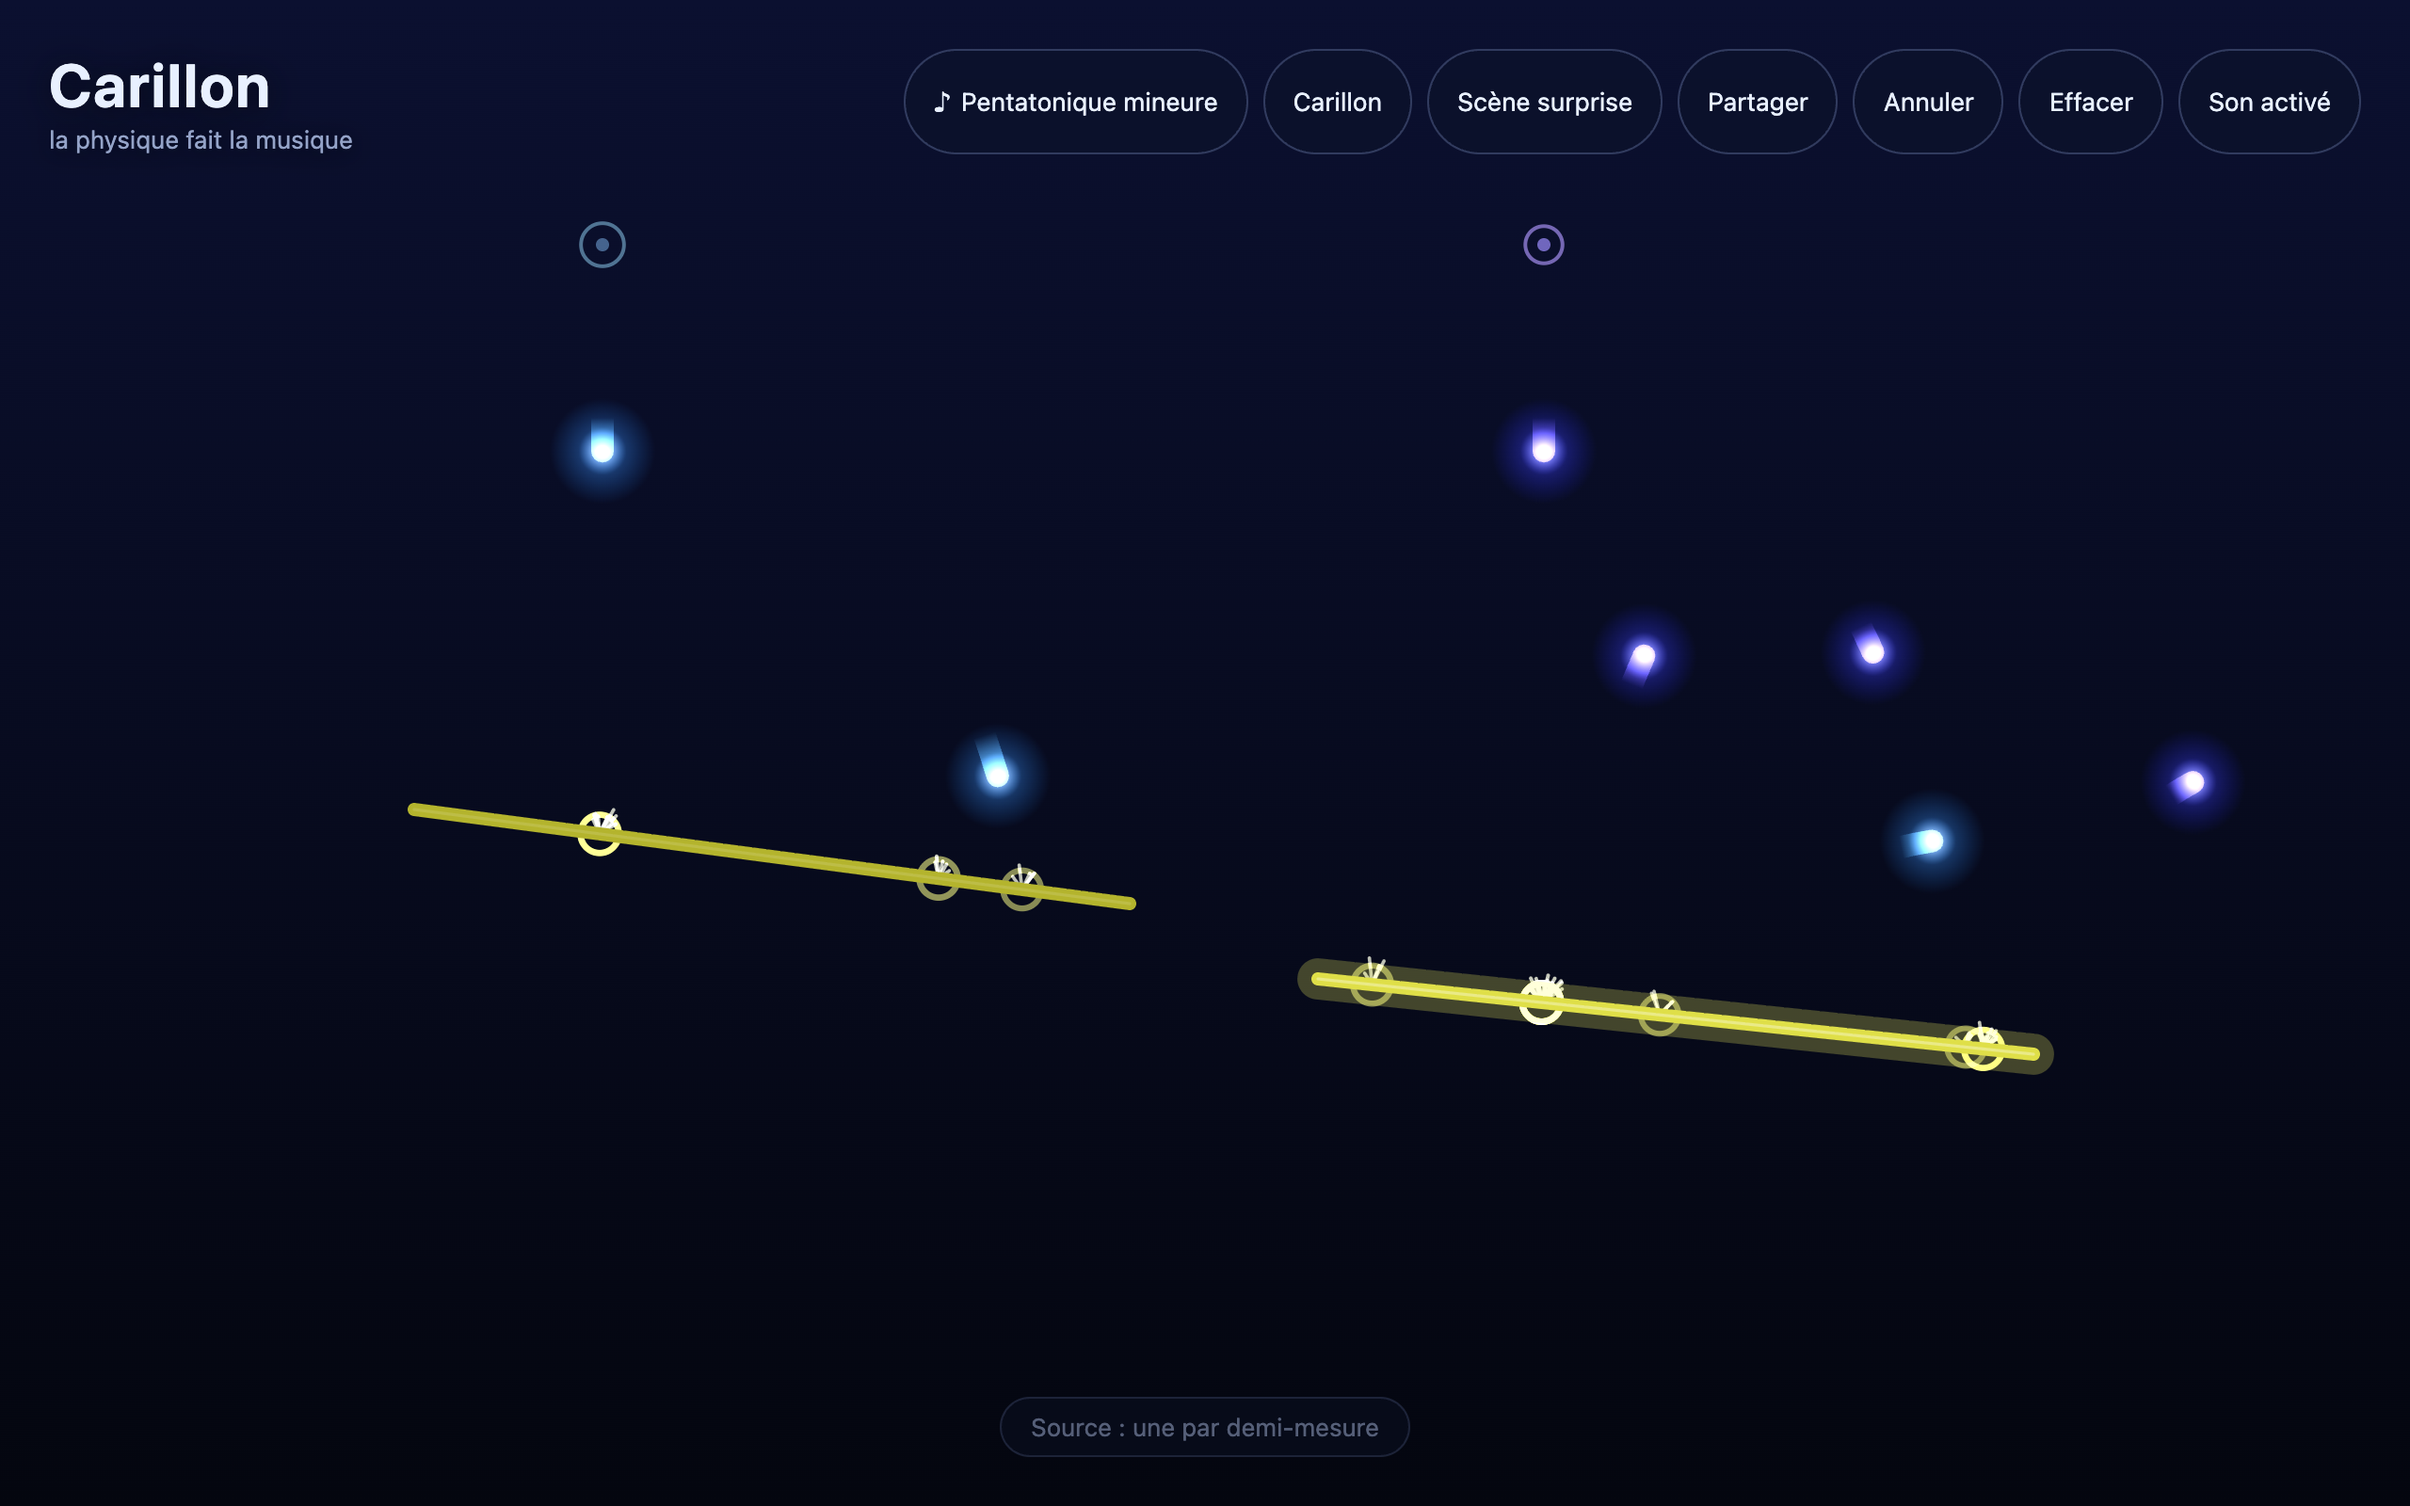
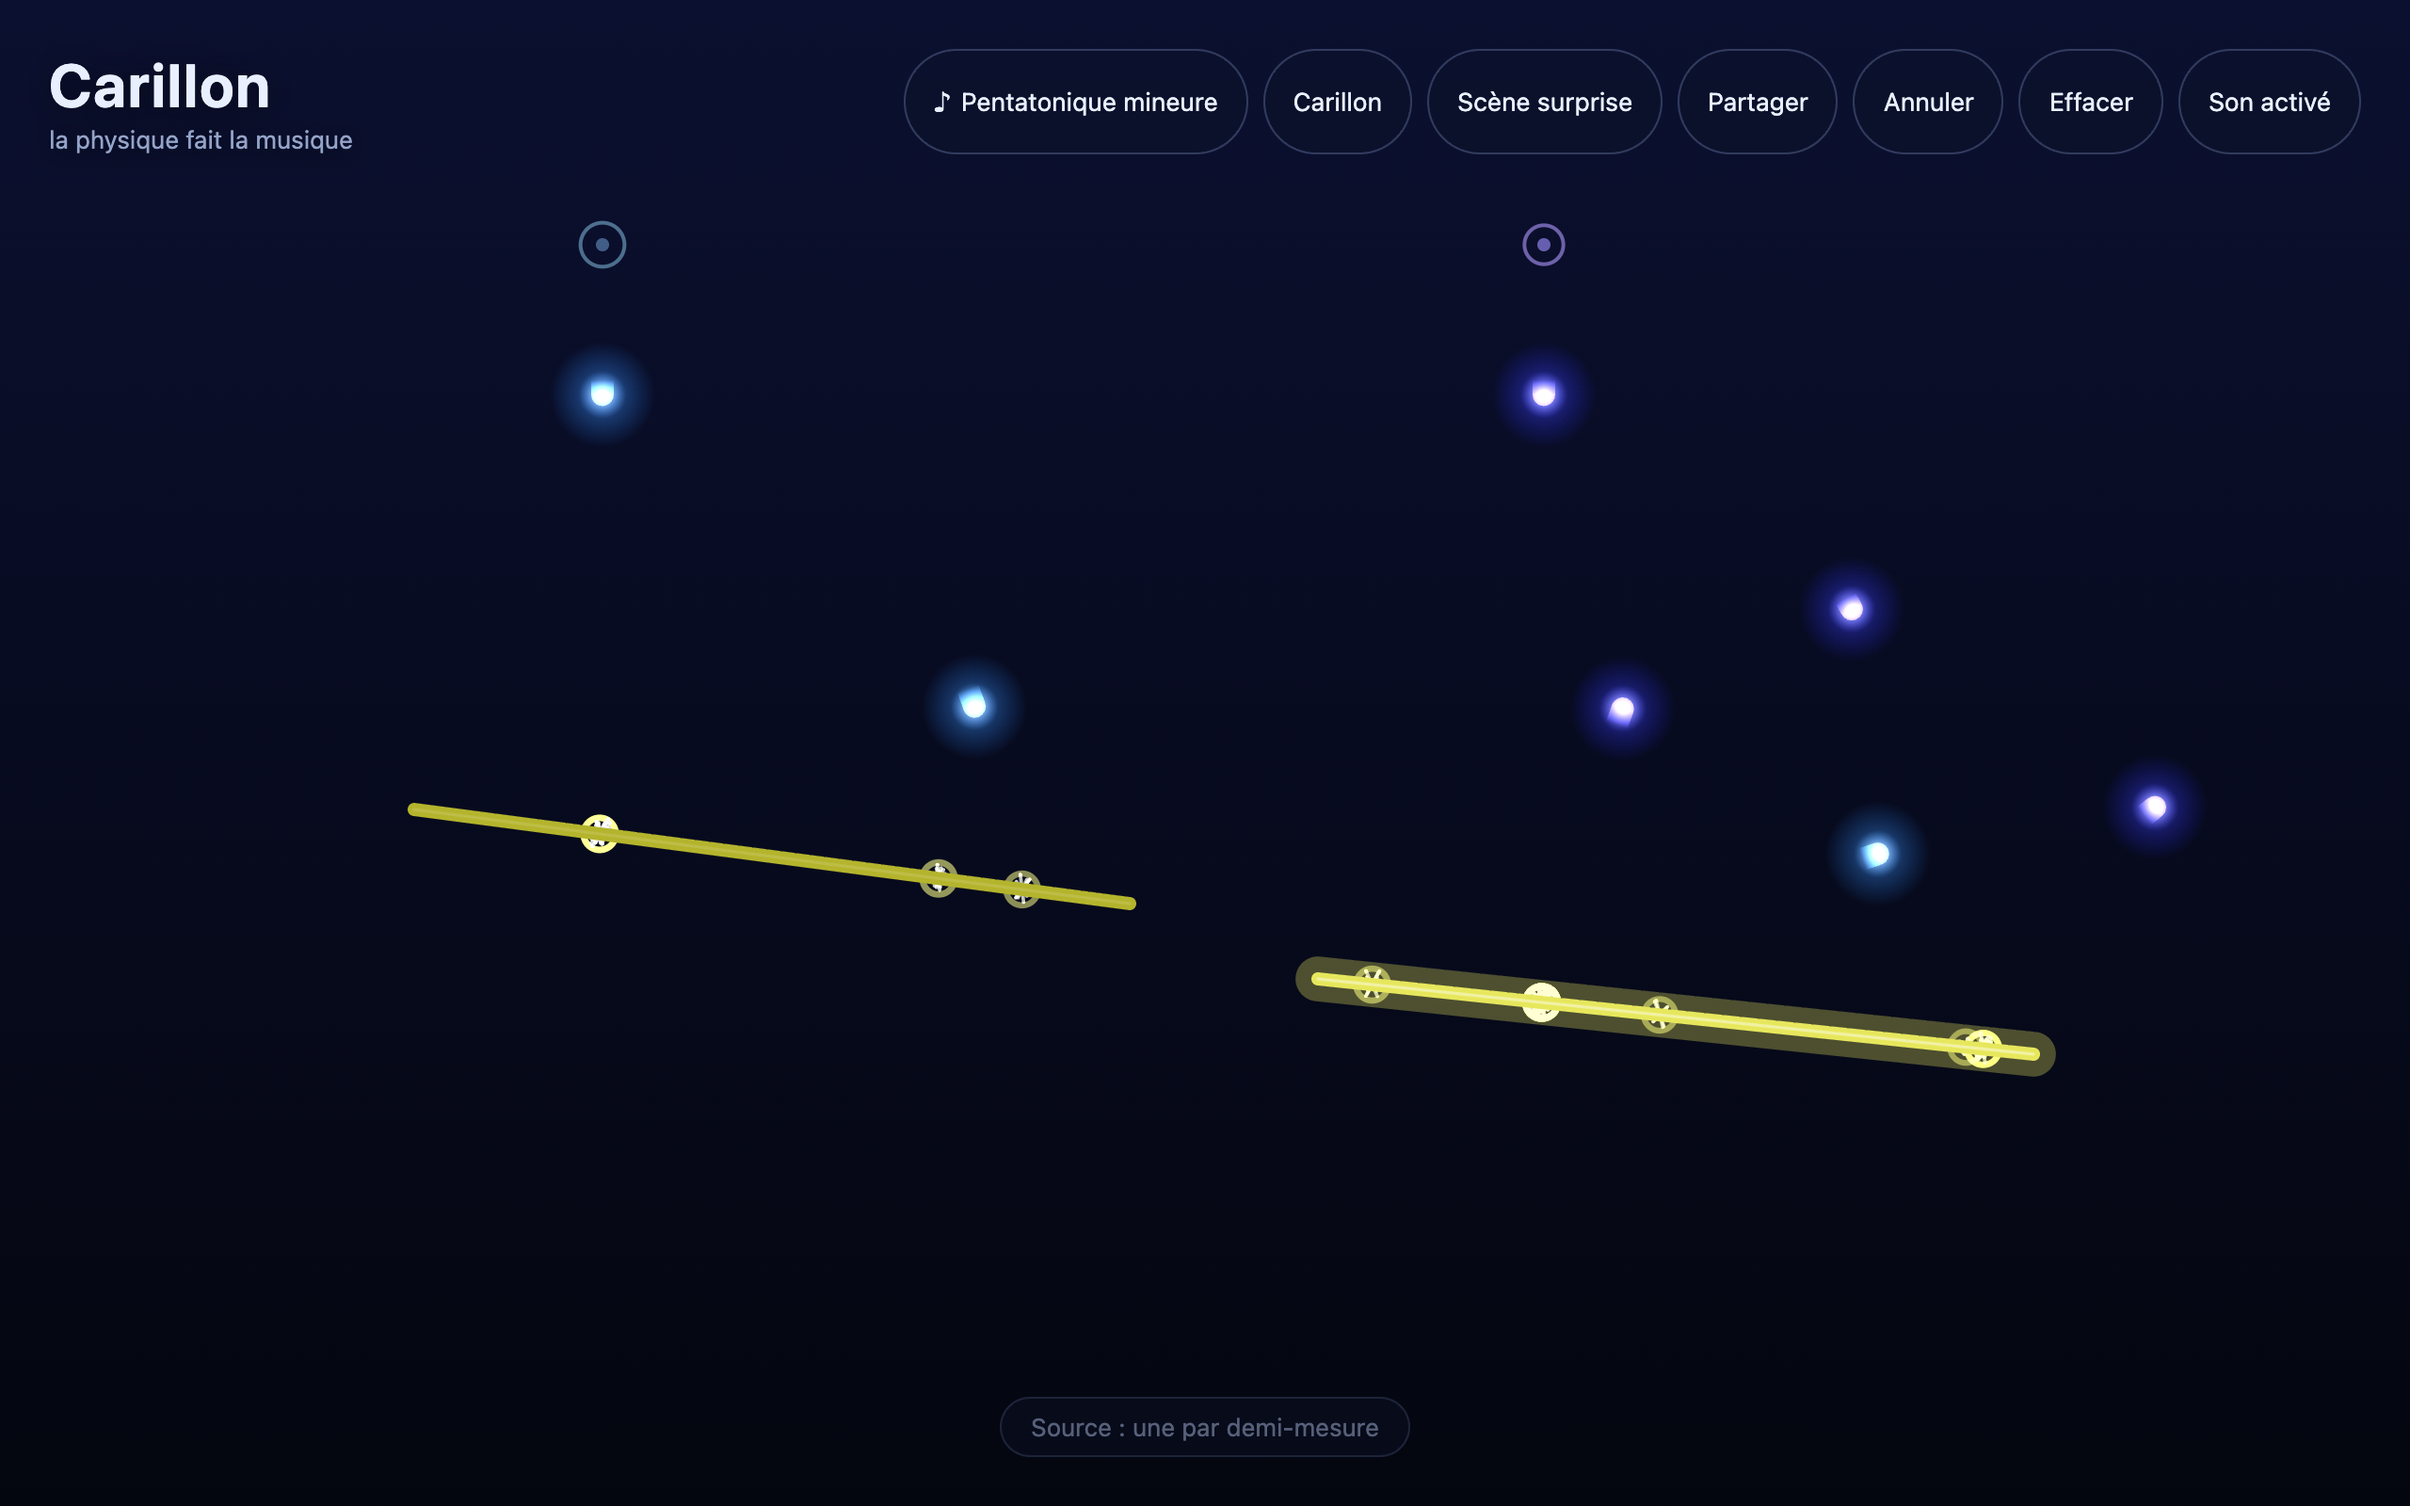
feat(ui): rendre les trois natures de barres lisibles d'un coup d'œil
Moitié visible de l'US9. Cinq états à distinguer sans texte, sans survol et sans
interaction : mur, trampoline, éphémère pleine, éphémère usée, éphémère absente.

- Le **mur** ne change pas.
- Le **trampoline** porte des crans perpendiculaires : un ressort se lit à ses
  spires. Un pointillé de plus se confondrait avec l'éphémère, et une couleur
  différente entrerait en conflit avec la teinte, qui porte déjà la hauteur.
- L'**éphémère** est ajourée, et son pointillé **s'érode** à mesure qu'elle
  encaisse : la matière du trait se raréfie, ce qui répond à « la barre montre où
  elle en est » sans un mot.
- **Absente**, elle laisse un fantôme pointillé : sans lui, elle disparaîtrait
  purement et le motif semblerait s'être cassé.

Deux corrections que la capture a imposées, et qu'aucune assertion n'aurait
trouvées seule :

1. Le pointillé était d'abord porté par le **cœur blanc** de 1,6 px, invisible
   sous les 7 px de couleur : sur la capture, une barre éphémère était
   indiscernable d'un mur. C'est le trait le plus épais qui décide de la lecture,
   pas celui que je croyais le plus lisible.
2. Les intervalles étaient plus **courts** que l'épaisseur du trait, et les bouts
   arrondis ajoutent 3,5 px de chaque côté : ils rebouchaient les trous. Mesuré,
   le pointillé ne retirait que 4 % de matière. Les barres ajourées sont
   désormais tracées à bouts francs, avec des intervalles plus larges que le
   trait — 42 % de matière retirée.
[…]

diff --git a/src/ui/renderer.ts b/src/ui/renderer.ts
@@ -8,6 +8,7 @@ import {
 } from '../core/particles'
 import type { Particle } from '../core/particles'
 import { emitterPeriod } from '../core/emitter'
+import { isPresent } from '../core/nature'
 import { BAR_THICKNESS } from '../core/physics'
 import { createRng } from '../core/rng'
 import type { Bounds, ImpactEvent, Vec2, World } from '../core/types'
@@ -228,19 +229,59 @@ export function createRenderer(stage: HTMLCanvasElement): Renderer {
         continue
       }
 
+      // Barre éphémère absente : un fantôme, pour qu'on sache qu'elle va revenir. Sans lui, elle
+      // disparaîtrait purement et le motif semblerait s'être cassé.
+      if (!isPresent(bar, world.time)) {
+        drawGhost(bar, hue)
+        continue
+      }
+
       if (hot > 0) {
         base.strokeStyle = `hsla(${hue}, 100%, 70%, ${0.14 + hot * 0.3})`
         base.lineWidth = BAR_THICKNESS + 10 + hot * 14
+        // Pointillé aussi sur la lueur : pleine, elle rebouchait les creux au moment même de l'impact,
+        // donc exactement quand l'œil regarde la barre.
+        if (bar.nature === 'ephemeral') {
+          base.setLineDash(dashForHits(bar.hitsLeft))
+          base.lineCap = 'butt'
+        }
         strokeBar(bar.a, bar.b)
+        base.setLineDash([])
+        base.lineCap = 'round'
       }
 
+      /*
+       * Le **trait coloré** porte la nature, pas le cœur blanc. Première version : le pointillé était sur
+       * le cœur de 1,6 px, totalement invisible sous les 7 px de couleur — sur la capture, une barre
+       * éphémère était indiscernable d'un mur. C'est le trait le plus épais qui décide de la lecture.
+       */
       base.strokeStyle = `hsl(${hue}, ${60 + hot * 30}%, ${44 + hot * 40}%)`
       base.lineWidth = BAR_THICKNESS
+      if (bar.nature === 'ephemeral') {
+        base.setLineDash(dashForHits(bar.hitsLeft))
+        base.lineCap = 'butt'
+      }
       strokeBar(bar.a, bar.b)
+      base.setLineDash([])
+      base.lineCap = 'round'
 
+      /*
+       * Le cœur blanc porte la **nature** de la barre, parce que c'est le trait le plus lisible à
+       * distance : plein pour un mur, pointillé qui s'érode pour une éphémère. Le trampoline, lui, prend
+       * des crans perpendiculaires — un pointillé de plus ne se distinguerait pas du premier.
+       */
       base.strokeStyle = `hsla(0, 0%, 100%, ${0.12 + hot * 0.65})`
       base.lineWidth = 1.6
+      // Même pointillé que le trait coloré : un cœur plein reboucherait les trous et effacerait la nature.
+      if (bar.nature === 'ephemeral') {
+        base.setLineDash(dashForHits(bar.hitsLeft))
+        base.lineCap = 'butt'
+      }
       strokeBar(bar.a, bar.b)
+      base.setLineDash([])
+      base.lineCap = 'round'
+
+      if (bar.nature === 'trampoline') drawSpring(bar, hot)
 
       if (bar.id === interaction.hoveredBarId) drawGrabHandles(bar, interaction.hoveredKind, 'hover')
       else if (interaction.revealHandles) drawGrabHandles(bar, null, 'reveal')
@@ -306,6 +347,61 @@ export function createRenderer(stage: HTMLCanvasElement): Renderer {
     base.lineWidth = BAR_THICKNESS
     strokeBar(bar.a, bar.b)
     base.restore()
+  }
+
+  /**
+   * Motif de pointillé d'une barre éphémère : il **s'érode** à mesure qu'elle encaisse. C'est ce qui
+   * répond à « la barre montre où elle en est » sans texte ni survol — la matière du trait se raréfie.
+   */
+  function dashForHits(hitsLeft: number): number[] {
+    /*
+     * Les intervalles sont **plus larges que l'épaisseur du trait** (7 px), sinon les bouts arrondis les
+     * rebouchent : mesuré, un pointillé [16, 5] ne retirait que 4 % de matière et une barre éphémère
+     * restait indiscernable d'un mur. Les barres ajourées sont d'ailleurs tracées à bouts francs.
+     */
+    if (hitsLeft >= 3) return [15, 11]
+    if (hitsLeft === 2) return [9, 14]
+    return [4, 18]
+  }
+
+  /**
+   * Crans perpendiculaires d'un trampoline. Un ressort se lit à ses spires : des traits en travers de la
+   * barre disent « ça repousse » là où un pointillé se confondrait avec l'éphémère, et où une couleur
+   * différente entrerait en conflit avec la teinte, qui porte déjà la **hauteur**.
+   */
+  function drawSpring(bar: { a: Vec2; b: Vec2 }, hot: number): void {
+    const dx = bar.b.x - bar.a.x
+    const dy = bar.b.y - bar.a.y
+    const length = Math.hypot(dx, dy)
+    if (length < 1) return
+    const ux = dx / length
+    const uy = dy / length
+    const nx = -uy
+    const ny = ux
+    const count = Math.max(3, Math.min(9, Math.round(length / 26)))
+    const reach = BAR_THICKNESS * 0.9
+
+    base.strokeStyle = `hsla(0, 0%, 100%, ${0.34 + hot * 0.5})`
+    base.lineWidth = 1.5
+    base.beginPath()
+    for (let i = 0; i < count; i += 1) {
+      // Répartis à l'intérieur, sans toucher les extrémités : là se trouvent les poignées de préhension.
+      const t = (i + 1) / (count + 1)
+      const px = bar.a.x + dx * t
+      const py = bar.a.y + dy * t
+      base.moveTo(px - nx * reach, py - ny * reach)
+      base.lineTo(px + nx * reach, py + ny * reach)
+    }
+    base.stroke()
+  }
+
+  /** Barre éphémère absente : contour pointillé, sans lueur ni couleur pleine. Elle reviendra. */
+  function drawGhost(bar: { a: Vec2; b: Vec2 }, hue: number): void {
+    base.setLineDash([5, 9])
+    base.strokeStyle = `hsla(${hue}, 60%, 70%, 0.22)`
+    base.lineWidth = 2
+    strokeBar(bar.a, bar.b)
+    base.setLineDash([])
   }
 
   function strokeBar(a: Vec2, b: Vec2): void {

diff --git a/src/main.ts b/src/main.ts
@@ -25,7 +25,8 @@ import {
 } from './core/emitter'
 import { divisionAt, divisionLabel, gridTimeAfter, nearestDivisionIndex } from './core/clock'
 import { createHistory } from './core/history'
-import { cycleNature, natureLabel } from './core/nature'
+import { NATURES, cycleNature, natureLabel, rearm } from './core/nature'
+import type { BarNature } from './core/nature'
 import {
   DEFAULT_INSTRUMENT,
   INSTRUMENTS,
@@ -900,6 +901,11 @@ interface CarillonDebug {
   /** air composé actuellement posé, ou `null` si la scène n'en porte pas */
   composedMelody(): { label: string; notes: number } | null
   /**
+   * Pose l'état d'une barre. **Un seul** accès pour la nature, la vie restante et l'absence : les trois
+   * ne s'atteignent autrement qu'en jouant, ce qui ne permet pas de montrer les cinq états côte à côte.
+   */
+  setBar(id: number, patch: { nature?: string; hitsLeft?: number; absentUntil?: number }): boolean
+  /**
    * Rend hors ligne une salve dense sur l'instrument courant et renvoie ce qui en sort réellement.
    * `notes > 0` compte des appels, pas des décibels : c'est la seule mesure qui puisse dire « ça ne
    * sature pas » sans oreille humaine.
@@ -981,6 +987,17 @@ window.__carillon = {
     })),
   lastImpact: () => (lastImpactPoint ? { ...lastImpactPoint } : null),
   composedMelody: () => (composedMelody ? { ...composedMelody } : null),
+  setBar: (id, patch) => {
+    const bar = world.bars.find((candidate) => candidate.id === id)
+    if (!bar) return false
+    if (patch.nature && NATURES.includes(patch.nature as BarNature)) {
+      bar.nature = patch.nature as BarNature
+      rearm(bar)
+    }
+    if (patch.hitsLeft !== undefined) bar.hitsLeft = patch.hitsLeft
+    if (patch.absentUntil !== undefined) bar.absentUntil = patch.absentUntil
+    return true
+  },
   measureAudio: async (voices = 24) => {
     // Une salve **simultanée** au gain maximal, étalée sur toute l'étendue : c'est le pire cas
     // réaliste (une pluie de billes sur une rangée de barres), et c'est là que la saturation arrive.

diff --git a/docs/plans/2026-07-29-001-feat-natures-de-barres-plan.md b/docs/plans/2026-07-29-001-feat-natures-de-barres-plan.md
@@ -9,6 +9,8 @@ execution: code
 
 # Natures de barres - Plan
 
+> Statut : **livrée** pour le cœur, le geste et le rendu. Reste le format de partage v2 (R10).
+
 ## Goal Capsule
 
 - **Objectif** : donner une nature aux barres — mur, trampoline, éphémère — pour qu'un motif **évolue** au lieu de se répéter à l'identique.
@@ -79,6 +81,20 @@ Les types de barres figuraient au backlog de l'US3 et y ont été reportés — 
 **Le partage**
 
 - R10. La nature des barres, le tempo et l'instrument voyagent dans le lien de partage. Un lien émis avant ce travail reste lisible : ses barres sont des murs, son tempo et son instrument sont ceux par défaut.
+
+### Résultats mesurés
+
+| # | Résultat |
+|---|---|
+| R1–R5 | Cœur pur, 17 tests, 10 mutations tuées. Le trampoline est borné par la hauteur **au-dessus de l'impact** et mesuré sur le bord haut de la bille, pas son centre — posée sur le point de contact, la borne la laissait à moitié hors de l'écran (centre à y = 1 ; désormais 25). |
+| R6, R7 | Appui long sur une barre, annulable. Le tap reste l'écoute : un appui long ne produit **aucune** note, vérifié en unitaire et dans la page. |
+| R8, R9 | Cinq états distinguables sans texte ni survol, **mesurés en pixels** sur scène figée : mur 11 348 unités de matière, trampoline 11 600 (plus 252 de crans blancs contre 0), éphémère 6 580, usée 2 128, absente 0. |
+| R10 | **Non fait** — format de partage v2. |
+
+Deux corrections que la capture a imposées, et qu'aucune assertion n'aurait trouvées seule :
+
+1. Le pointillé était d'abord porté par le **cœur blanc** de 1,6 px, invisible sous les 7 px de couleur : une barre éphémère était indiscernable d'un mur. C'est le trait le plus épais qui décide de la lecture.
+2. Les intervalles étaient plus **courts** que l'épaisseur du trait, et les bouts arrondis les rebouchaient : le pointillé ne retirait que 4 % de matière. Les barres ajourées sont maintenant tracées à bouts francs, avec des intervalles plus larges que le trait — 42 % de matière retirée.
 
 ### Acceptance Examples
 
